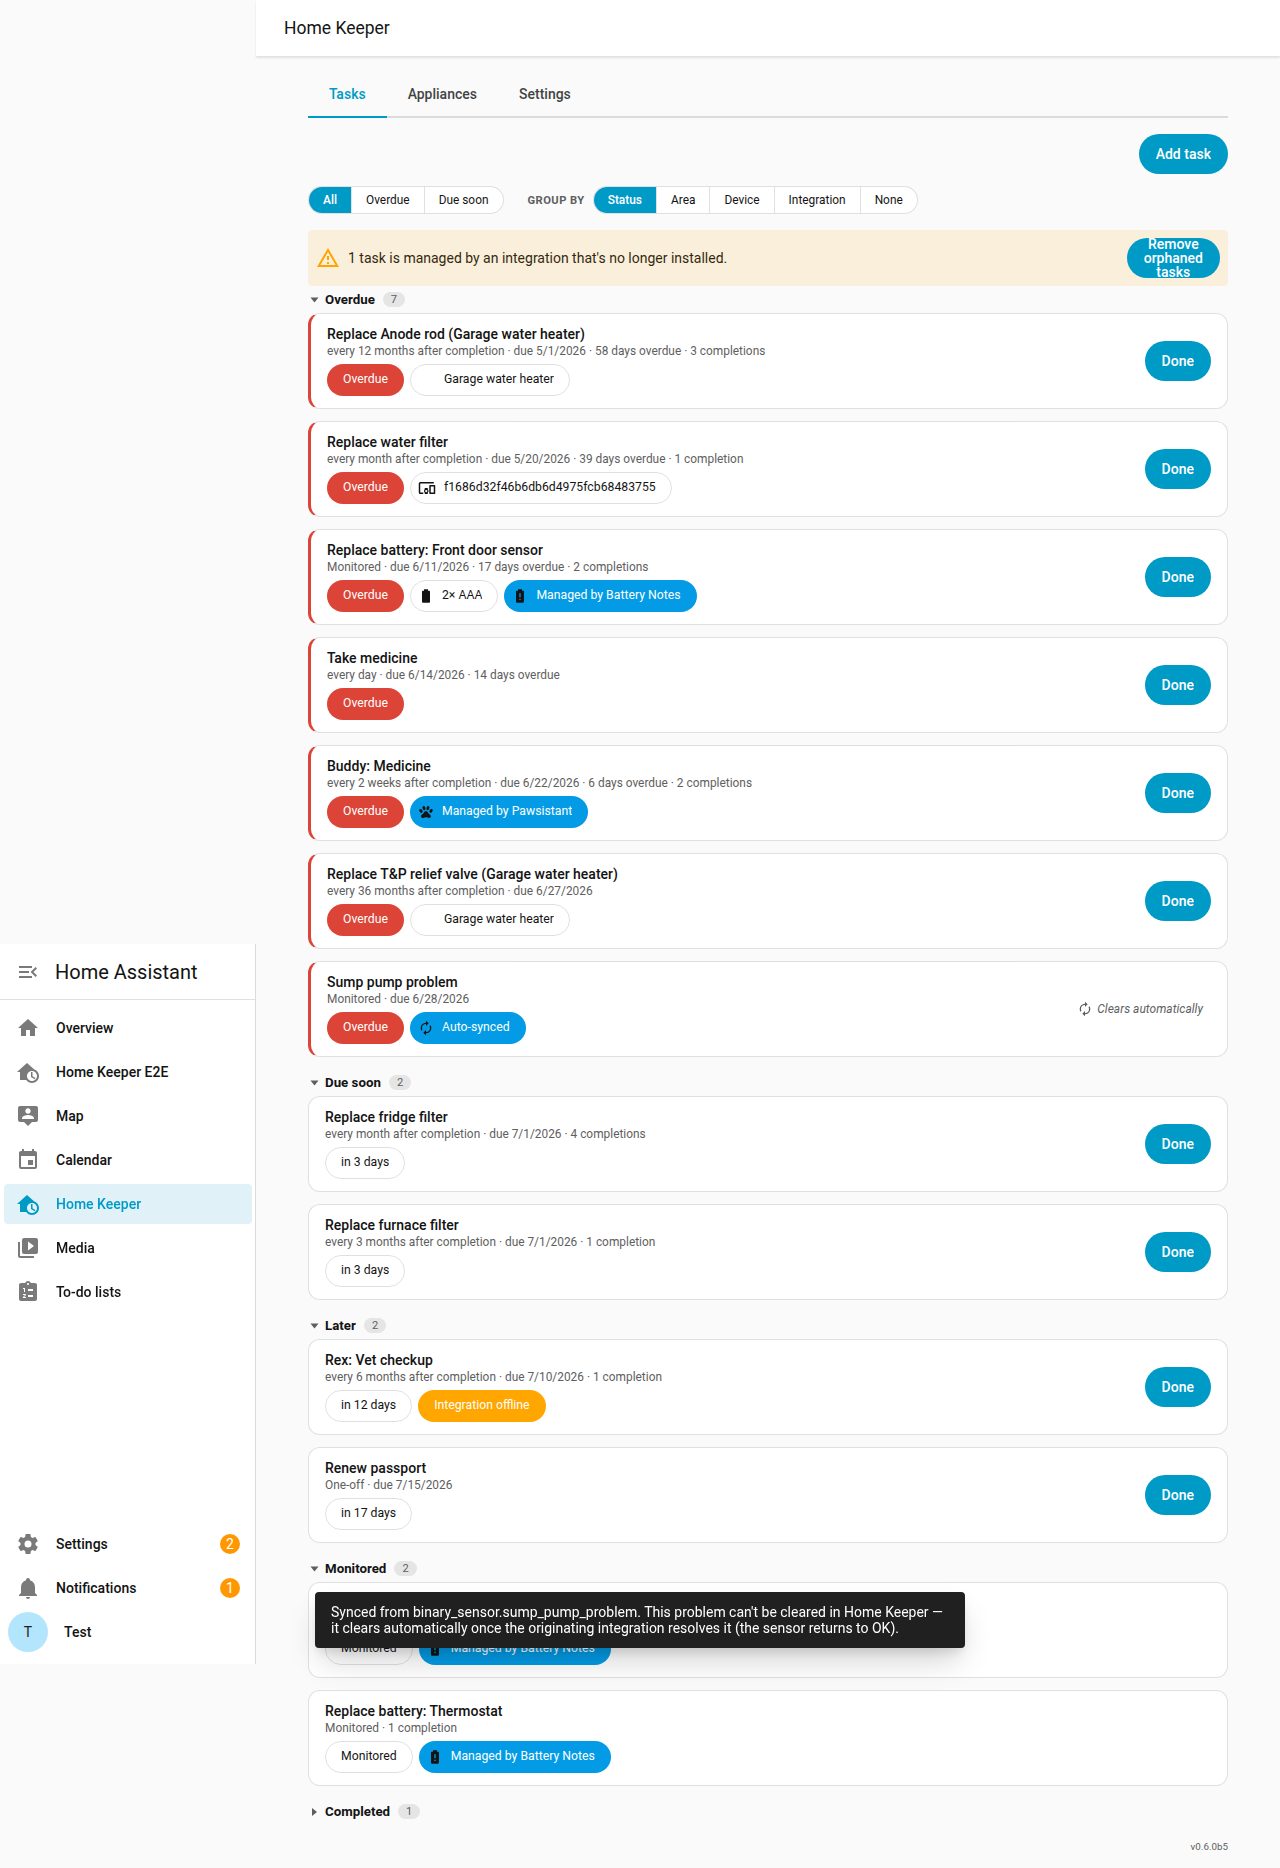
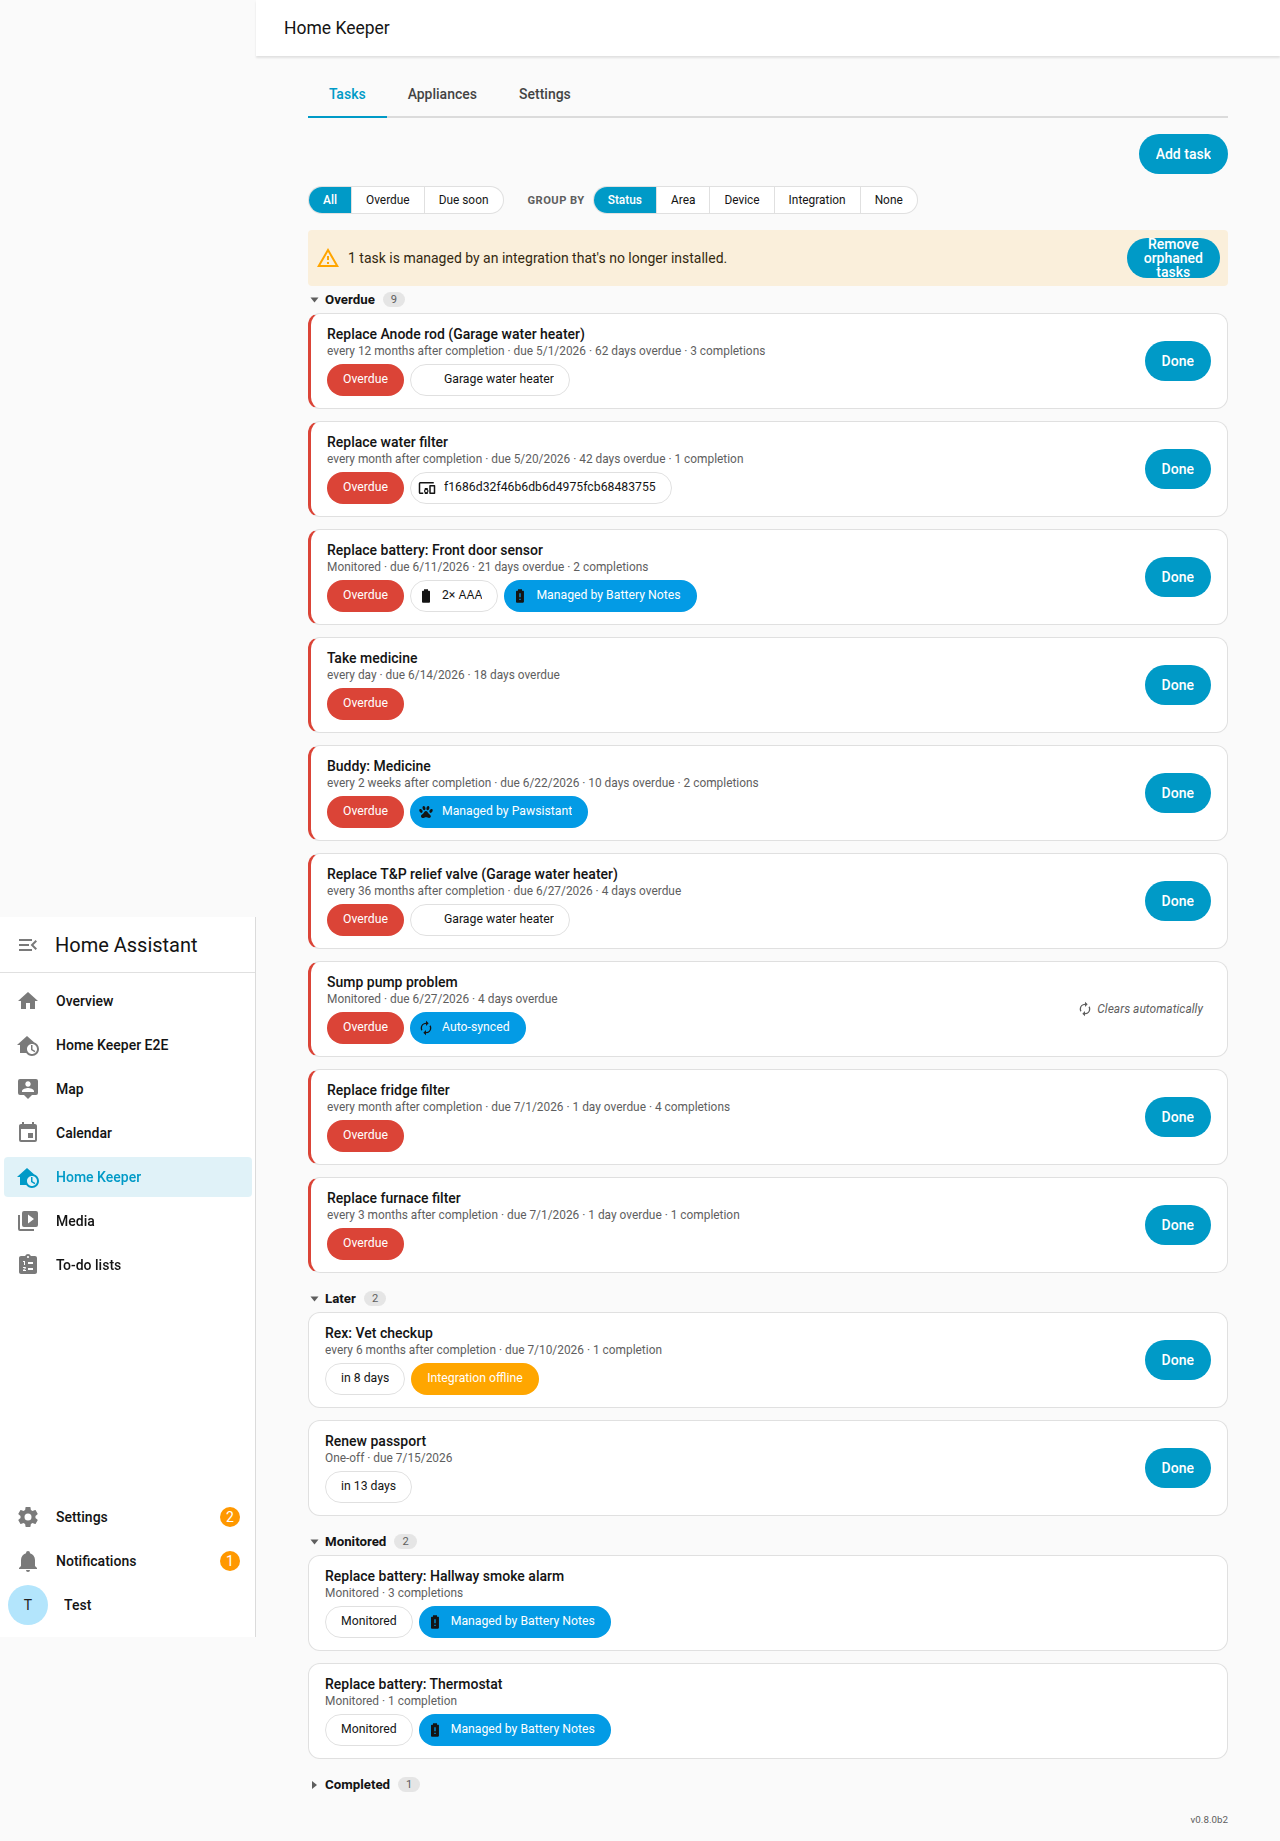
Deploy preview for PR 125 🛫

diff --git a/pr-preview/pr-125/docs/guide/one-off-tasks.html b/pr-preview/pr-125/docs/guide/one-off-tasks.html
@@ -4,7 +4,7 @@
 <meta charset="UTF-8">
 <meta name="generator" content="Docusaurus v3.10.1">
 <title data-rh="true">One-off tasks | Home Keeper</title><meta data-rh="true" name="viewport" content="width=device-width,initial-scale=1"><meta data-rh="true" name="twitter:card" content="summary_large_image"><meta data-rh="true" property="og:image" content="https://prestomation.github.io/ha-home-keeper/pr-preview/pr-125/img/logo.svg"><meta data-rh="true" name="twitter:image" content="https://prestomation.github.io/ha-home-keeper/pr-preview/pr-125/img/logo.svg"><meta data-rh="true" property="og:url" content="https://prestomation.github.io/ha-home-keeper/pr-preview/pr-125/docs/guide/one-off-tasks"><meta data-rh="true" property="og:locale" content="en"><meta data-rh="true" name="docusaurus_locale" content="en"><meta data-rh="true" name="docsearch:language" content="en"><meta data-rh="true" name="docusaurus_version" content="current"><meta data-rh="true" name="docusaurus_tag" content="docs-default-current"><meta data-rh="true" name="docsearch:version" content="current"><meta data-rh="true" name="docsearch:docusaurus_tag" content="docs-default-current"><meta data-rh="true" property="og:title" content="One-off tasks | Home Keeper"><meta data-rh="true" name="description" content="Not everything repeats. One-off tasks are for things you do exactly once —"><meta data-rh="true" property="og:description" content="Not everything repeats. One-off tasks are for things you do exactly once —"><link data-rh="true" rel="icon" href="/ha-home-keeper/pr-preview/pr-125/img/favicon.svg"><link data-rh="true" rel="canonical" href="https://prestomation.github.io/ha-home-keeper/pr-preview/pr-125/docs/guide/one-off-tasks"><link data-rh="true" rel="alternate" href="https://prestomation.github.io/ha-home-keeper/pr-preview/pr-125/docs/guide/one-off-tasks" hreflang="en"><link data-rh="true" rel="alternate" href="https://prestomation.github.io/ha-home-keeper/pr-preview/pr-125/docs/guide/one-off-tasks" hreflang="x-default"><script data-rh="true" type="application/ld+json">{"@context":"https://schema.org","@type":"BreadcrumbList","itemListElement":[{"@type":"ListItem","position":1,"name":"One-off tasks","item":"https://prestomation.github.io/ha-home-keeper/pr-preview/pr-125/docs/guide/one-off-tasks"}]}</script><link rel="stylesheet" href="/ha-home-keeper/pr-preview/pr-125/assets/css/styles.12814b72.css">
-<script src="/ha-home-keeper/pr-preview/pr-125/assets/js/runtime~main.05652926.js" defer="defer"></script>
+<script src="/ha-home-keeper/pr-preview/pr-125/assets/js/runtime~main.12352a05.js" defer="defer"></script>
 <script src="/ha-home-keeper/pr-preview/pr-125/assets/js/main.db74cc26.js" defer="defer"></script>
 </head>
 <body>
@@ -22,7 +22,7 @@ the usual completion details (note, cost, who, photo). The difference is what ha
 surface, landing in a collapsed <strong>Completed</strong> section in the panel that keeps its
 completion record. Undoing the completion brings it right back to its due date.</p>
 <p><img decoding="async" loading="lazy" alt="Creating a one-off task — no cadence, just a due date" src="/ha-home-keeper/pr-preview/pr-125/assets/images/20-panel-create-one-off-a5652bb52b47fc773d7b2124a4a5be16.png" width="1280" height="2737" class="img_ev3q"></p>
-<p><img decoding="async" loading="lazy" alt="Completed one-off tasks collect in their own collapsed section" src="/ha-home-keeper/pr-preview/pr-125/assets/images/19-panel-completed-section-6e2ec64d858d07832e35a5810aa82d0a.png" width="1280" height="1964" class="img_ev3q"></p>
+<p><img decoding="async" loading="lazy" alt="Completed one-off tasks collect in their own collapsed section" src="/ha-home-keeper/pr-preview/pr-125/assets/images/19-panel-completed-section-83c45188ce9db92caeff10250b43708c.png" width="1280" height="1937" class="img_ev3q"></p>
 <p><strong>Tidy up automatically.</strong> If you&#x27;d rather not let finished one-offs pile up, set
 <strong>One-off retention (days)</strong> in the panel&#x27;s <strong>Settings</strong> tab (or via the
 <code>home_keeper.set_options</code> service): a completed one-off is deleted that many days

diff --git a/pr-preview/pr-125/docs/intro.html b/pr-preview/pr-125/docs/intro.html
@@ -4,7 +4,7 @@
 <meta charset="UTF-8">
 <meta name="generator" content="Docusaurus v3.10.1">
 <title data-rh="true">Introduction | Home Keeper</title><meta data-rh="true" name="viewport" content="width=device-width,initial-scale=1"><meta data-rh="true" name="twitter:card" content="summary_large_image"><meta data-rh="true" property="og:image" content="https://prestomation.github.io/ha-home-keeper/pr-preview/pr-125/img/logo.svg"><meta data-rh="true" name="twitter:image" content="https://prestomation.github.io/ha-home-keeper/pr-preview/pr-125/img/logo.svg"><meta data-rh="true" property="og:url" content="https://prestomation.github.io/ha-home-keeper/pr-preview/pr-125/docs/intro"><meta data-rh="true" property="og:locale" content="en"><meta data-rh="true" name="docusaurus_locale" content="en"><meta data-rh="true" name="docsearch:language" content="en"><meta data-rh="true" name="docusaurus_version" content="current"><meta data-rh="true" name="docusaurus_tag" content="docs-default-current"><meta data-rh="true" name="docsearch:version" content="current"><meta data-rh="true" name="docsearch:docusaurus_tag" content="docs-default-current"><meta data-rh="true" property="og:title" content="Introduction | Home Keeper"><meta data-rh="true" name="description" content="Track home maintenance and chores in Home Assistant — fridge/furnace filter"><meta data-rh="true" property="og:description" content="Track home maintenance and chores in Home Assistant — fridge/furnace filter"><link data-rh="true" rel="icon" href="/ha-home-keeper/pr-preview/pr-125/img/favicon.svg"><link data-rh="true" rel="canonical" href="https://prestomation.github.io/ha-home-keeper/pr-preview/pr-125/docs/intro"><link data-rh="true" rel="alternate" href="https://prestomation.github.io/ha-home-keeper/pr-preview/pr-125/docs/intro" hreflang="en"><link data-rh="true" rel="alternate" href="https://prestomation.github.io/ha-home-keeper/pr-preview/pr-125/docs/intro" hreflang="x-default"><script data-rh="true" type="application/ld+json">{"@context":"https://schema.org","@type":"BreadcrumbList","itemListElement":[{"@type":"ListItem","position":1,"name":"Introduction","item":"https://prestomation.github.io/ha-home-keeper/pr-preview/pr-125/docs/intro"}]}</script><link rel="stylesheet" href="/ha-home-keeper/pr-preview/pr-125/assets/css/styles.12814b72.css">
-<script src="/ha-home-keeper/pr-preview/pr-125/assets/js/runtime~main.05652926.js" defer="defer"></script>
+<script src="/ha-home-keeper/pr-preview/pr-125/assets/js/runtime~main.12352a05.js" defer="defer"></script>
 <script src="/ha-home-keeper/pr-preview/pr-125/assets/js/main.db74cc26.js" defer="defer"></script>
 </head>
 <body>
@@ -14,7 +14,7 @@
 <script>!function(){var t=function(){try{return new URLSearchParams(window.location.search).get("docusaurus-theme")}catch(t){}}()||function(){try{return window.localStorage.getItem("theme")}catch(t){}}();document.documentElement.setAttribute("data-theme",t||(window.matchMedia("(prefers-color-scheme: dark)").matches?"dark":"light")),document.documentElement.setAttribute("data-theme-choice",t||"system")}(),function(){try{const c=new URLSearchParams(window.location.search).entries();for(var[t,e]of c)if(t.startsWith("docusaurus-data-")){var a=t.replace("docusaurus-data-","data-");document.documentElement.setAttribute(a,e)}}catch(t){}}()</script><div id="__docusaurus"><link rel="preload" as="image" href="/ha-home-keeper/pr-preview/pr-125/img/logo.svg"><div role="region" aria-label="Skip to main content"><a class="skipToContent_fXgn" href="#__docusaurus_skipToContent_fallback">Skip to main content</a></div><nav aria-label="Main" class="theme-layout-navbar navbar navbar--fixed-top"><div class="navbar__inner"><div class="theme-layout-navbar-left navbar__items"><button aria-label="Toggle navigation bar" aria-expanded="false" class="navbar__toggle clean-btn" type="button"><svg width="30" height="30" viewBox="0 0 30 30" aria-hidden="true"><path stroke="currentColor" stroke-linecap="round" stroke-miterlimit="10" stroke-width="2" d="M4 7h22M4 15h22M4 23h22"></path></svg></button><a class="navbar__brand" href="/ha-home-keeper/pr-preview/pr-125/"><div class="navbar__logo"><img src="/ha-home-keeper/pr-preview/pr-125/img/logo.svg" alt="Home Keeper" class="themedComponent_mlkZ themedComponent--light_NVdE"><img src="/ha-home-keeper/pr-preview/pr-125/img/logo.svg" alt="Home Keeper" class="themedComponent_mlkZ themedComponent--dark_xIcU"></div><b class="navbar__title text--truncate">Home Keeper</b></a><a aria-current="page" class="navbar__item navbar__link navbar__link--active" href="/ha-home-keeper/pr-preview/pr-125/docs/intro">User Guide</a><a class="navbar__item navbar__link" href="/ha-home-keeper/pr-preview/pr-125/developer/integrating">Developer Guide</a><a class="navbar__item navbar__link" href="/ha-home-keeper/pr-preview/pr-125/docs/release-notes">Release Notes</a></div><div class="theme-layout-navbar-right navbar__items navbar__items--right"><a href="https://github.com/prestomation/ha-home-keeper/commits/main" target="_blank" rel="noopener noreferrer" class="navbar__item navbar__link">dev<svg width="13.5" height="13.5" aria-label="(opens in new tab)" class="iconExternalLink_nPIU"><use href="#theme-svg-external-link"></use></svg></a><a href="https://github.com/prestomation/ha-home-keeper" target="_blank" rel="noopener noreferrer" class="navbar__item navbar__link">GitHub<svg width="13.5" height="13.5" aria-label="(opens in new tab)" class="iconExternalLink_nPIU"><use href="#theme-svg-external-link"></use></svg></a><div class="toggle_vylO colorModeToggle_DEke"><button class="clean-btn toggleButton_gllP toggleButtonDisabled_aARS" type="button" disabled="" title="system mode" aria-label="Switch between dark and light mode (currently system mode)"><svg viewBox="0 0 24 24" width="24" height="24" aria-hidden="true" class="toggleIcon_g3eP lightToggleIcon_pyhR"><path fill="currentColor" d="M12,9c1.65,0,3,1.35,3,3s-1.35,3-3,3s-3-1.35-3-3S10.35,9,12,9 M12,7c-2.76,0-5,2.24-5,5s2.24,5,5,5s5-2.24,5-5 S14.76,7,12,7L12,7z M2,13l2,0c0.55,0,1-0.45,1-1s-0.45-1-1-1l-2,0c-0.55,0-1,0.45-1,1S1.45,13,2,13z M20,13l2,0c0.55,0,1-0.45,1-1 s-0.45-1-1-1l-2,0c-0.55,0-1,0.45-1,1S19.45,13,20,13z M11,2v2c0,0.55,0.45,1,1,1s1-0.45,1-1V2c0-[phone redacted]-1S11,1.45,11,2z M11,20v2c0,0.55,0.45,1,1,1s1-0.45,1-1v-2c0-[phone redacted]-1C11.45,19,11,19.45,11,20z M5.99,4.58c-[phone redacted],0 c-0.39,0.39-0.39,1.03,0,1.41l1.06,1.06c0.39,0.39,1.03,0.39,1.41,0s0.39-1.03,0-1.41L5.99,4.58z M18.36,16.95 c-[phone redacted],0c-0.39,0.39-0.39,1.03,0,1.41l1.06,1.06c0.39,0.39,1.03,0.39,1.41,0c0.39-0.39,0.39-1.03,0-1.41 L18.36,16.95z M19.42,5.99c0.39-0.39,0.39-1.03,0-1.41c-[phone redacted],0l-1.06,1.06c-0.39,0.39-0.39,1.03,0,1.41 s1.03,0.39,1.41,0L19.42,5.99z M7.05,18.36c0.39-0.39,0.39-1.03,0-1.41c-[phone redacted],0l-1.06,1.06 c-0.39,0.39-0.39,1.03,0,1.41s1.03,0.39,1.41,0L7.05,18.36z"></path></svg><svg viewBox="0 0 24 24" width="24" height="24" aria-hidden="true" class="toggleIcon_g3eP darkToggleIcon_wfgR"><path fill="currentColor" d="M9.37,5.51C9.19,6.15,9.1,6.82,9.1,7.5c0,4.08,3.32,7.4,7.4,7.4c0.68,0,1.35-0.09,1.99-0.27C17.45,17.19,14.93,19,12,19 c-3.86,0-7-3.14-7-7C5,9.07,6.81,6.55,9.37,5.51z M12,3c-4.97,0-9,4.03-9,9s4.03,9,9,9s9-4.03,9-9c0-[phone redacted] c-0.98,1.37-2.58,2.26-4.4,2.26c-2.98,[phone redacted].4c0-1.81,0.89-3.42,2.26-4.4C12.92,3.04,12.46,3,12,3L12,3z"></path></svg><svg viewBox="0 0 24 24" width="24" height="24" aria-hidden="true" class="toggleIcon_g3eP systemToggleIcon_QzmC"><path fill="currentColor" d="m12 21c4.[phone redacted]-9s-[phone redacted].029 9 9 9zm4.95-13.95c1.[phone redacted].05 4.95s-[phone redacted].95c-[phone redacted]-4.95 2.05v-14c1.[phone redacted] 2.05z"></path></svg></button></div><div class="navbarSearchContainer_Bca1"></div></div></div><div role="presentation" class="navbar-sidebar__backdrop"></div></nav><div id="__docusaurus_skipToContent_fallback" class="theme-layout-main main-wrapper mainWrapper_z2l0"><div class="docsWrapper_hBAB"><button aria-label="Scroll back to top" class="clean-btn theme-back-to-top-button backToTopButton_sjWU" type="button"></button><div class="docRoot_UBD9"><aside class="theme-doc-sidebar-container docSidebarContainer_YfHR"><div class="sidebarViewport_aRkj"><div class="sidebar_njMd"><nav aria-label="Docs sidebar" class="menu thin-scrollbar menu_SIkG"><ul class="theme-doc-sidebar-menu menu__list"><li class="theme-doc-sidebar-item-link theme-doc-sidebar-item-link-level-1 menu__list-item"><a class="menu__link menu__link--active" aria-current="page" href="/ha-home-keeper/pr-preview/pr-125/docs/intro"><span title="Introduction" class="linkLabel_WmDU">Introduction</span></a></li><li class="theme-doc-sidebar-item-category theme-doc-sidebar-item-category-level-1 menu__list-item"><div class="menu__list-item-collapsible"><a class="categoryLink_byQd menu__link menu__link--sublist menu__link--sublist-caret" role="button" aria-expanded="true" href="/ha-home-keeper/pr-preview/pr-125/docs/guide/features"><span title="Guide" class="categoryLinkLabel_W154">Guide</span></a></div><ul class="menu__list"><li class="theme-doc-sidebar-item-link theme-doc-sidebar-item-link-level-2 menu__list-item"><a class="menu__link" tabindex="0" href="/ha-home-keeper/pr-preview/pr-125/docs/guide/features"><span title="Features" class="linkLabel_WmDU">Features</span></a></li><li class="theme-doc-sidebar-item-link theme-doc-sidebar-item-link-level-2 menu__list-item"><a class="menu__link" tabindex="0" href="/ha-home-keeper/pr-preview/pr-125/docs/guide/installation"><span title="Installation" class="linkLabel_WmDU">Installation</span></a></li><li class="theme-doc-sidebar-item-link theme-doc-sidebar-item-link-level-2 menu__list-item"><a class="menu__link" tabindex="0" href="/ha-home-keeper/pr-preview/pr-125/docs/guide/concepts"><span title="Concepts" class="linkLabel_WmDU">Concepts</span></a></li><li class="theme-doc-sidebar-item-link theme-doc-sidebar-item-link-level-2 menu__list-item"><a class="menu__link" tabindex="0" href="/ha-home-keeper/pr-preview/pr-125/docs/guide/one-off-tasks"><span title="One-off tasks" class="linkLabel_WmDU">One-off tasks</span></a></li><li class="theme-doc-sidebar-item-link theme-doc-sidebar-item-link-level-2 menu__list-item"><a class="menu__link" tabindex="0" href="/ha-home-keeper/pr-preview/pr-125/docs/guide/completions"><span title="Completions" class="linkLabel_WmDU">Completions</span></a></li><li class="theme-doc-sidebar-item-link theme-doc-sidebar-item-link-level-2 menu__list-item"><a class="menu__link" tabindex="0" href="/ha-home-keeper/pr-preview/pr-125/docs/guide/triggered-tasks"><span title="Triggered tasks" class="linkLabel_WmDU">Triggered tasks</span></a></li><li class="theme-doc-sidebar-item-link theme-doc-sidebar-item-link-level-2 menu__list-item"><a class="menu__link" tabindex="0" href="/ha-home-keeper/pr-preview/pr-125/docs/guide/sensor-tasks"><span title="Sensor-based tasks" class="linkLabel_WmDU">Sensor-based tasks</span></a></li><li class="theme-doc-sidebar-item-link theme-doc-sidebar-item-link-level-2 menu__list-item"><a class="menu__link" tabindex="0" href="/ha-home-keeper/pr-preview/pr-125/docs/guide/settings"><span title="Settings" class="linkLabel_WmDU">Settings</span></a></li><li class="theme-doc-sidebar-item-link theme-doc-sidebar-item-link-level-2 menu__list-item"><a class="menu__link" tabindex="0" href="/ha-home-keeper/pr-preview/pr-125/docs/guide/profiles"><span title="Profiles" class="linkLabel_WmDU">Profiles</span></a></li><li class="theme-doc-sidebar-item-link theme-doc-sidebar-item-link-level-2 menu__list-item"><a class="menu__link" tabindex="0" href="/ha-home-keeper/pr-preview/pr-125/docs/guide/notifications"><span title="Notifications" class="linkLabel_WmDU">Notifications</span></a></li><li class="theme-doc-sidebar-item-link theme-doc-sidebar-item-link-level-2 menu__list-item"><a class="menu__link" tabindex="0" href="/ha-home-keeper/pr-preview/pr-125/docs/guide/dashboard-card"><span title="Dashboard card" class="linkLabel_WmDU">Dashboard card</span></a></li><li class="theme-doc-sidebar-item-link theme-doc-sidebar-item-link-level-2 menu__list-item"><a class="menu__link" tabindex="0" href="/ha-home-keeper/pr-preview/pr-125/docs/guide/appliances"><span title="Appliances" class="linkLabel_WmDU">Appliances</span></a></li><li class="theme-doc-sidebar-item-link theme-doc-sidebar-item-link-level-2 menu__list-item"><a class="menu__link" tabindex="0" href="/ha-home-keeper/pr-preview/pr-125/docs/guide/services"><span title="Services" class="linkLabel_WmDU">Services</span></a></li><li class="theme-doc-sidebar-item-link theme-doc-sidebar-item-link-level-2 menu__list-item"><a class="menu__link" tabindex="0" href="/ha-home-keeper/pr-preview/pr-125/docs/guide/events"><span title="Events" class="linkLabel_WmDU">Events</span></a></li><li class="theme-doc-sidebar-item-link theme-doc-sidebar-item-link-level-2 menu__list-item"><a class="menu__link" tabindex="0" href="/ha-home-keeper/pr-preview/pr-125/docs/guide/integrations"><span title="Integrations" class="linkLabel_WmDU">Integrations</span></a></li><li class="theme-doc-sidebar-item-link theme-doc-sidebar-item-link-level-2 menu__list-item"><a class="menu__link" tabindex="0" href="/ha-home-keeper/pr-preview/pr-125/docs/guide/localization"><span title="Localization" class="linkLabel_WmDU">Localization</span></a></li></ul></li><li class="theme-doc-sidebar-item-link theme-doc-sidebar-item-link-level-1 menu__list-item"><a class="menu__link" href="/ha-home-keeper/pr-preview/pr-125/docs/release-notes"><span title="Release Notes" class="linkLabel_WmDU">Release Notes</span></a></li></ul></nav></div></div></aside><main class="docMainContainer_TBSr"><div class="container padding-top--md padding-bottom--lg"><div class="row"><div class="col docItemCol_VOVn"><div class="docItemContainer_Djhp"><article><nav class="theme-doc-breadcrumbs breadcrumbsContainer_Z_bl" aria-label="Breadcrumbs"><ul class="breadcrumbs"><li class="breadcrumbs__item"><a aria-label="Home page" class="breadcrumbs__link" href="/ha-home-keeper/pr-preview/pr-125/"><svg viewBox="0 0 24 24" class="breadcrumbHomeIcon_YNFT"><path d="M10 19v-5h4v5c0 .55.45 1 1 1h3c.55 0 1-.45 1-1v-7h1.7c.46 0 .68-.57.33-.87L12.67 3.6c-.38-.34-.96-.34-1.34 0l-8.36 7.53c-.34.3-.13.87.33.87H5v7c0 .55.45 1 1 1h3c.55 0 1-.45 1-1z" fill="currentColor"></path></svg></a></li><li class="breadcrumbs__item breadcrumbs__item--active"><span class="breadcrumbs__link">Introduction</span></li></ul></nav><div class="tocCollapsible_ETCw theme-doc-toc-mobile tocMobile_ITEo"><button type="button" class="clean-btn tocCollapsibleButton_TO0P">On this page</button></div><div class="theme-doc-markdown markdown"><header><h1>Home Keeper</h1></header>
 <p>Track home <strong>maintenance</strong> and <strong>chores</strong> in Home Assistant — fridge/furnace filter
 changes, water filters, taking medicine, and anything else that recurs.</p>
-<p><img decoding="async" loading="lazy" alt="Home Keeper task list" src="/ha-home-keeper/pr-preview/pr-125/assets/images/1-panel-task-list-95de90cfeb40f738cf119fd63f9b3f14.png" width="1280" height="1664" class="img_ev3q"></p>
+<p><img decoding="async" loading="lazy" alt="Home Keeper task list" src="/ha-home-keeper/pr-preview/pr-125/assets/images/1-panel-task-list-d98820364c1b4cffb259e98307741754.png" width="1280" height="1637" class="img_ev3q"></p>
 <h2 class="anchor anchorTargetStickyNavbar_Vzrq" id="features-at-a-glance">Features at a glance<a href="#features-at-a-glance" class="hash-link" aria-label="Direct link to Features at a glance" title="Direct link to Features at a glance" translate="no"></a></h2>
 <ul>
 <li class=""><strong>Tasks, four ways</strong> — <strong>floating</strong> (every N units after last done), <strong>fixed</strong>

diff --git a/pr-preview/pr-125/404.html b/pr-preview/pr-125/404.html
@@ -4,7 +4,7 @@
 <meta charset="UTF-8">
 <meta name="generator" content="Docusaurus v3.10.1">
 <title data-rh="true">Page Not Found | Home Keeper</title><meta data-rh="true" name="viewport" content="width=device-width,initial-scale=1"><meta data-rh="true" name="twitter:card" content="summary_large_image"><meta data-rh="true" property="og:image" content="https://prestomation.github.io/ha-home-keeper/pr-preview/pr-125/img/logo.svg"><meta data-rh="true" name="twitter:image" content="https://prestomation.github.io/ha-home-keeper/pr-preview/pr-125/img/logo.svg"><meta data-rh="true" property="og:url" content="https://prestomation.github.io/ha-home-keeper/pr-preview/pr-125/404.html"><meta data-rh="true" property="og:locale" content="en"><meta data-rh="true" name="docusaurus_locale" content="en"><meta data-rh="true" name="docusaurus_tag" content="default"><meta data-rh="true" name="docsearch:language" content="en"><meta data-rh="true" name="docsearch:docusaurus_tag" content="default"><meta data-rh="true" property="og:title" content="Page Not Found | Home Keeper"><link data-rh="true" rel="icon" href="/ha-home-keeper/pr-preview/pr-125/img/favicon.svg"><link data-rh="true" rel="canonical" href="https://prestomation.github.io/ha-home-keeper/pr-preview/pr-125/404.html"><link data-rh="true" rel="alternate" href="https://prestomation.github.io/ha-home-keeper/pr-preview/pr-125/404.html" hreflang="en"><link data-rh="true" rel="alternate" href="https://prestomation.github.io/ha-home-keeper/pr-preview/pr-125/404.html" hreflang="x-default"><link rel="stylesheet" href="/ha-home-keeper/pr-preview/pr-125/assets/css/styles.12814b72.css">
-<script src="/ha-home-keeper/pr-preview/pr-125/assets/js/runtime~main.05652926.js" defer="defer"></script>
+<script src="/ha-home-keeper/pr-preview/pr-125/assets/js/runtime~main.12352a05.js" defer="defer"></script>
 <script src="/ha-home-keeper/pr-preview/pr-125/assets/js/main.db74cc26.js" defer="defer"></script>
 </head>
 <body>

diff --git a/pr-preview/pr-125/developer/architecture.html b/pr-preview/pr-125/developer/architecture.html
@@ -4,7 +4,7 @@
 <meta charset="UTF-8">
 <meta name="generator" content="Docusaurus v3.10.1">
 <title data-rh="true">Architecture | Home Keeper</title><meta data-rh="true" name="viewport" content="width=device-width,initial-scale=1"><meta data-rh="true" name="twitter:card" content="summary_large_image"><meta data-rh="true" property="og:image" content="https://prestomation.github.io/ha-home-keeper/pr-preview/pr-125/img/logo.svg"><meta data-rh="true" name="twitter:image" content="https://prestomation.github.io/ha-home-keeper/pr-preview/pr-125/img/logo.svg"><meta data-rh="true" property="og:url" content="https://prestomation.github.io/ha-home-keeper/pr-preview/pr-125/developer/architecture"><meta data-rh="true" property="og:locale" content="en"><meta data-rh="true" name="docusaurus_locale" content="en"><meta data-rh="true" name="docsearch:language" content="en"><meta data-rh="true" name="docusaurus_version" content="current"><meta data-rh="true" name="docusaurus_tag" content="docs-developer-current"><meta data-rh="true" name="docsearch:version" content="current"><meta data-rh="true" name="docsearch:docusaurus_tag" content="docs-developer-current"><meta data-rh="true" property="og:title" content="Architecture | Home Keeper"><meta data-rh="true" name="description" content="Goal"><meta data-rh="true" property="og:description" content="Goal"><link data-rh="true" rel="icon" href="/ha-home-keeper/pr-preview/pr-125/img/favicon.svg"><link data-rh="true" rel="canonical" href="https://prestomation.github.io/ha-home-keeper/pr-preview/pr-125/developer/architecture"><link data-rh="true" rel="alternate" href="https://prestomation.github.io/ha-home-keeper/pr-preview/pr-125/developer/architecture" hreflang="en"><link data-rh="true" rel="alternate" href="https://prestomation.github.io/ha-home-keeper/pr-preview/pr-125/developer/architecture" hreflang="x-default"><script data-rh="true" type="application/ld+json">{"@context":"https://schema.org","@type":"BreadcrumbList","itemListElement":[{"@type":"ListItem","position":1,"name":"Architecture","item":"https://prestomation.github.io/ha-home-keeper/pr-preview/pr-125/developer/architecture"}]}</script><link rel="stylesheet" href="/ha-home-keeper/pr-preview/pr-125/assets/css/styles.12814b72.css">
-<script src="/ha-home-keeper/pr-preview/pr-125/assets/js/runtime~main.05652926.js" defer="defer"></script>
+<script src="/ha-home-keeper/pr-preview/pr-125/assets/js/runtime~main.12352a05.js" defer="defer"></script>
 <script src="/ha-home-keeper/pr-preview/pr-125/assets/js/main.db74cc26.js" defer="defer"></script>
 </head>
 <body>

diff --git a/pr-preview/pr-125/developer/events.html b/pr-preview/pr-125/developer/events.html
@@ -4,7 +4,7 @@
 <meta charset="UTF-8">
 <meta name="generator" content="Docusaurus v3.10.1">
 <title data-rh="true">Events reference | Home Keeper</title><meta data-rh="true" name="viewport" content="width=device-width,initial-scale=1"><meta data-rh="true" name="twitter:card" content="summary_large_image"><meta data-rh="true" property="og:image" content="https://prestomation.github.io/ha-home-keeper/pr-preview/pr-125/img/logo.svg"><meta data-rh="true" name="twitter:image" content="https://prestomation.github.io/ha-home-keeper/pr-preview/pr-125/img/logo.svg"><meta data-rh="true" property="og:url" content="https://prestomation.github.io/ha-home-keeper/pr-preview/pr-125/developer/events"><meta data-rh="true" property="og:locale" content="en"><meta data-rh="true" name="docusaurus_locale" content="en"><meta data-rh="true" name="docsearch:language" content="en"><meta data-rh="true" name="docusaurus_version" content="current"><meta data-rh="true" name="docusaurus_tag" content="docs-developer-current"><meta data-rh="true" name="docsearch:version" content="current"><meta data-rh="true" name="docsearch:docusaurus_tag" content="docs-developer-current"><meta data-rh="true" property="og:title" content="Events reference | Home Keeper"><meta data-rh="true" name="description" content="Home Keeper fires a Home Assistant bus event for every meaningful thing that"><meta data-rh="true" property="og:description" content="Home Keeper fires a Home Assistant bus event for every meaningful thing that"><link data-rh="true" rel="icon" href="/ha-home-keeper/pr-preview/pr-125/img/favicon.svg"><link data-rh="true" rel="canonical" href="https://prestomation.github.io/ha-home-keeper/pr-preview/pr-125/developer/events"><link data-rh="true" rel="alternate" href="https://prestomation.github.io/ha-home-keeper/pr-preview/pr-125/developer/events" hreflang="en"><link data-rh="true" rel="alternate" href="https://prestomation.github.io/ha-home-keeper/pr-preview/pr-125/developer/events" hreflang="x-default"><script data-rh="true" type="application/ld+json">{"@context":"https://schema.org","@type":"BreadcrumbList","itemListElement":[{"@type":"ListItem","position":1,"name":"Events","item":"https://prestomation.github.io/ha-home-keeper/pr-preview/pr-125/developer/events"}]}</script><link rel="stylesheet" href="/ha-home-keeper/pr-preview/pr-125/assets/css/styles.12814b72.css">
-<script src="/ha-home-keeper/pr-preview/pr-125/assets/js/runtime~main.05652926.js" defer="defer"></script>
+<script src="/ha-home-keeper/pr-preview/pr-125/assets/js/runtime~main.12352a05.js" defer="defer"></script>
 <script src="/ha-home-keeper/pr-preview/pr-125/assets/js/main.db74cc26.js" defer="defer"></script>
 </head>
 <body>

diff --git a/pr-preview/pr-125/developer/glue-integrations.html b/pr-preview/pr-125/developer/glue-integrations.html
@@ -4,7 +4,7 @@
 <meta charset="UTF-8">
 <meta name="generator" content="Docusaurus v3.10.1">
 <title data-rh="true">Glue integrations | Home Keeper</title><meta data-rh="true" name="viewport" content="width=device-width,initial-scale=1"><meta data-rh="true" name="twitter:card" content="summary_large_image"><meta data-rh="true" property="og:image" content="https://prestomation.github.io/ha-home-keeper/pr-preview/pr-125/img/logo.svg"><meta data-rh="true" name="twitter:image" content="https://prestomation.github.io/ha-home-keeper/pr-preview/pr-125/img/logo.svg"><meta data-rh="true" property="og:url" content="https://prestomation.github.io/ha-home-keeper/pr-preview/pr-125/developer/glue-integrations"><meta data-rh="true" property="og:locale" content="en"><meta data-rh="true" name="docusaurus_locale" content="en"><meta data-rh="true" name="docsearch:language" content="en"><meta data-rh="true" name="docusaurus_version" content="current"><meta data-rh="true" name="docusaurus_tag" content="docs-developer-current"><meta data-rh="true" name="docsearch:version" content="current"><meta data-rh="true" name="docsearch:docusaurus_tag" content="docs-developer-current"><meta data-rh="true" property="og:title" content="Glue integrations | Home Keeper"><meta data-rh="true" name="description" content="A glue integration is a small, standalone Home Assistant integration whose only job"><meta data-rh="true" property="og:description" content="A glue integration is a small, standalone Home Assistant integration whose only job"><link data-rh="true" rel="icon" href="/ha-home-keeper/pr-preview/pr-125/img/favicon.svg"><link data-rh="true" rel="canonical" href="https://prestomation.github.io/ha-home-keeper/pr-preview/pr-125/developer/glue-integrations"><link data-rh="true" rel="alternate" href="https://prestomation.github.io/ha-home-keeper/pr-preview/pr-125/developer/glue-integrations" hreflang="en"><link data-rh="true" rel="alternate" href="https://prestomation.github.io/ha-home-keeper/pr-preview/pr-125/developer/glue-integrations" hreflang="x-default"><script data-rh="true" type="application/ld+json">{"@context":"https://schema.org","@type":"BreadcrumbList","itemListElement":[{"@type":"ListItem","position":1,"name":"Glue integrations","item":"https://prestomation.github.io/ha-home-keeper/pr-preview/pr-125/developer/glue-integrations"}]}</script><link rel="stylesheet" href="/ha-home-keeper/pr-preview/pr-125/assets/css/styles.12814b72.css">
-<script src="/ha-home-keeper/pr-preview/pr-125/assets/js/runtime~main.05652926.js" defer="defer"></script>
+<script src="/ha-home-keeper/pr-preview/pr-125/assets/js/runtime~main.12352a05.js" defer="defer"></script>
 <script src="/ha-home-keeper/pr-preview/pr-125/assets/js/main.db74cc26.js" defer="defer"></script>
 </head>
 <body>

diff --git a/pr-preview/pr-125/developer/integrating.html b/pr-preview/pr-125/developer/integrating.html
@@ -4,7 +4,7 @@
 <meta charset="UTF-8">
 <meta name="generator" content="Docusaurus v3.10.1">
 <title data-rh="true">Integrating with Home Keeper | Home Keeper</title><meta data-rh="true" name="viewport" content="width=device-width,initial-scale=1"><meta data-rh="true" name="twitter:card" content="summary_large_image"><meta data-rh="true" property="og:image" content="https://prestomation.github.io/ha-home-keeper/pr-preview/pr-125/img/logo.svg"><meta data-rh="true" name="twitter:image" content="https://prestomation.github.io/ha-home-keeper/pr-preview/pr-125/img/logo.svg"><meta data-rh="true" property="og:url" content="https://prestomation.github.io/ha-home-keeper/pr-preview/pr-125/developer/integrating"><meta data-rh="true" property="og:locale" content="en"><meta data-rh="true" name="docusaurus_locale" content="en"><meta data-rh="true" name="docsearch:language" content="en"><meta data-rh="true" name="docusaurus_version" content="current"><meta data-rh="true" name="docusaurus_tag" content="docs-developer-current"><meta data-rh="true" name="docsearch:version" content="current"><meta data-rh="true" name="docsearch:docusaurus_tag" content="docs-developer-current"><meta data-rh="true" property="og:title" content="Integrating with Home Keeper | Home Keeper"><meta data-rh="true" name="description" content="This guide is for authors of other Home Assistant integrations who want to push"><meta data-rh="true" property="og:description" content="This guide is for authors of other Home Assistant integrations who want to push"><link data-rh="true" rel="icon" href="/ha-home-keeper/pr-preview/pr-125/img/favicon.svg"><link data-rh="true" rel="canonical" href="https://prestomation.github.io/ha-home-keeper/pr-preview/pr-125/developer/integrating"><link data-rh="true" rel="alternate" href="https://prestomation.github.io/ha-home-keeper/pr-preview/pr-125/developer/integrating" hreflang="en"><link data-rh="true" rel="alternate" href="https://prestomation.github.io/ha-home-keeper/pr-preview/pr-125/developer/integrating" hreflang="x-default"><script data-rh="true" type="application/ld+json">{"@context":"https://schema.org","@type":"BreadcrumbList","itemListElement":[{"@type":"ListItem","position":1,"name":"Integrating","item":"https://prestomation.github.io/ha-home-keeper/pr-preview/pr-125/developer/integrating"}]}</script><link rel="stylesheet" href="/ha-home-keeper/pr-preview/pr-125/assets/css/styles.12814b72.css">
-<script src="/ha-home-keeper/pr-preview/pr-125/assets/js/runtime~main.05652926.js" defer="defer"></script>
+<script src="/ha-home-keeper/pr-preview/pr-125/assets/js/runtime~main.12352a05.js" defer="defer"></script>
 <script src="/ha-home-keeper/pr-preview/pr-125/assets/js/main.db74cc26.js" defer="defer"></script>
 </head>
 <body>

diff --git a/pr-preview/pr-125/docs/guide/appliances.html b/pr-preview/pr-125/docs/guide/appliances.html
@@ -4,7 +4,7 @@
 <meta charset="UTF-8">
 <meta name="generator" content="Docusaurus v3.10.1">
 <title data-rh="true">Appliances | Home Keeper</title><meta data-rh="true" name="viewport" content="width=device-width,initial-scale=1"><meta data-rh="true" name="twitter:card" content="summary_large_image"><meta data-rh="true" property="og:image" content="https://prestomation.github.io/ha-home-keeper/pr-preview/pr-125/img/logo.svg"><meta data-rh="true" name="twitter:image" content="https://prestomation.github.io/ha-home-keeper/pr-preview/pr-125/img/logo.svg"><meta data-rh="true" property="og:url" content="https://prestomation.github.io/ha-home-keeper/pr-preview/pr-125/docs/guide/appliances"><meta data-rh="true" property="og:locale" content="en"><meta data-rh="true" name="docusaurus_locale" content="en"><meta data-rh="true" name="docsearch:language" content="en"><meta data-rh="true" name="docusaurus_version" content="current"><meta data-rh="true" name="docusaurus_tag" content="docs-default-current"><meta data-rh="true" name="docsearch:version" content="current"><meta data-rh="true" name="docsearch:docusaurus_tag" content="docs-default-current"><meta data-rh="true" property="og:title" content="Appliances | Home Keeper"><meta data-rh="true" name="description" content="Most appliances you actually maintain — a &quot;dumb&quot; fridge, furnace, or water heater —"><meta data-rh="true" property="og:description" content="Most appliances you actually maintain — a &quot;dumb&quot; fridge, furnace, or water heater —"><link data-rh="true" rel="icon" href="/ha-home-keeper/pr-preview/pr-125/img/favicon.svg"><link data-rh="true" rel="canonical" href="https://prestomation.github.io/ha-home-keeper/pr-preview/pr-125/docs/guide/appliances"><link data-rh="true" rel="alternate" href="https://prestomation.github.io/ha-home-keeper/pr-preview/pr-125/docs/guide/appliances" hreflang="en"><link data-rh="true" rel="alternate" href="https://prestomation.github.io/ha-home-keeper/pr-preview/pr-125/docs/guide/appliances" hreflang="x-default"><script data-rh="true" type="application/ld+json">{"@context":"https://schema.org","@type":"BreadcrumbList","itemListElement":[{"@type":"ListItem","position":1,"name":"Appliances","item":"https://prestomation.github.io/ha-home-keeper/pr-preview/pr-125/docs/guide/appliances"}]}</script><link rel="stylesheet" href="/ha-home-keeper/pr-preview/pr-125/assets/css/styles.12814b72.css">
-<script src="/ha-home-keeper/pr-preview/pr-125/assets/js/runtime~main.05652926.js" defer="defer"></script>
+<script src="/ha-home-keeper/pr-preview/pr-125/assets/js/runtime~main.12352a05.js" defer="defer"></script>
 <script src="/ha-home-keeper/pr-preview/pr-125/assets/js/main.db74cc26.js" defer="defer"></script>
 </head>
 <body>

diff --git a/pr-preview/pr-125/docs/guide/completions.html b/pr-preview/pr-125/docs/guide/completions.html
@@ -4,7 +4,7 @@
 <meta charset="UTF-8">
 <meta name="generator" content="Docusaurus v3.10.1">
 <title data-rh="true">Logging completions | Home Keeper</title><meta data-rh="true" name="viewport" content="width=device-width,initial-scale=1"><meta data-rh="true" name="twitter:card" content="summary_large_image"><meta data-rh="true" property="og:image" content="https://prestomation.github.io/ha-home-keeper/pr-preview/pr-125/img/logo.svg"><meta data-rh="true" name="twitter:image" content="https://prestomation.github.io/ha-home-keeper/pr-preview/pr-125/img/logo.svg"><meta data-rh="true" property="og:url" content="https://prestomation.github.io/ha-home-keeper/pr-preview/pr-125/docs/guide/completions"><meta data-rh="true" property="og:locale" content="en"><meta data-rh="true" name="docusaurus_locale" content="en"><meta data-rh="true" name="docsearch:language" content="en"><meta data-rh="true" name="docusaurus_version" content="current"><meta data-rh="true" name="docusaurus_tag" content="docs-default-current"><meta data-rh="true" name="docsearch:version" content="current"><meta data-rh="true" name="docsearch:docusaurus_tag" content="docs-default-current"><meta data-rh="true" property="og:title" content="Logging completions | Home Keeper"><meta data-rh="true" name="description" content="By default marking a task Done is one tap. But for the chores you want a record"><meta data-rh="true" property="og:description" content="By default marking a task Done is one tap. But for the chores you want a record"><link data-rh="true" rel="icon" href="/ha-home-keeper/pr-preview/pr-125/img/favicon.svg"><link data-rh="true" rel="canonical" href="https://prestomation.github.io/ha-home-keeper/pr-preview/pr-125/docs/guide/completions"><link data-rh="true" rel="alternate" href="https://prestomation.github.io/ha-home-keeper/pr-preview/pr-125/docs/guide/completions" hreflang="en"><link data-rh="true" rel="alternate" href="https://prestomation.github.io/ha-home-keeper/pr-preview/pr-125/docs/guide/completions" hreflang="x-default"><script data-rh="true" type="application/ld+json">{"@context":"https://schema.org","@type":"BreadcrumbList","itemListElement":[{"@type":"ListItem","position":1,"name":"Completions","item":"https://prestomation.github.io/ha-home-keeper/pr-preview/pr-125/docs/guide/completions"}]}</script><link rel="stylesheet" href="/ha-home-keeper/pr-preview/pr-125/assets/css/styles.12814b72.css">
-<script src="/ha-home-keeper/pr-preview/pr-125/assets/js/runtime~main.05652926.js" defer="defer"></script>
+<script src="/ha-home-keeper/pr-preview/pr-125/assets/js/runtime~main.12352a05.js" defer="defer"></script>
 <script src="/ha-home-keeper/pr-preview/pr-125/assets/js/main.db74cc26.js" defer="defer"></script>
 </head>
 <body>

diff --git a/pr-preview/pr-125/docs/guide/concepts.html b/pr-preview/pr-125/docs/guide/concepts.html
@@ -4,7 +4,7 @@
 <meta charset="UTF-8">
 <meta name="generator" content="Docusaurus v3.10.1">
 <title data-rh="true">Core concepts | Home Keeper</title><meta data-rh="true" name="viewport" content="width=device-width,initial-scale=1"><meta data-rh="true" name="twitter:card" content="summary_large_image"><meta data-rh="true" property="og:image" content="https://prestomation.github.io/ha-home-keeper/pr-preview/pr-125/img/logo.svg"><meta data-rh="true" name="twitter:image" content="https://prestomation.github.io/ha-home-keeper/pr-preview/pr-125/img/logo.svg"><meta data-rh="true" property="og:url" content="https://prestomation.github.io/ha-home-keeper/pr-preview/pr-125/docs/guide/concepts"><meta data-rh="true" property="og:locale" content="en"><meta data-rh="true" name="docusaurus_locale" content="en"><meta data-rh="true" name="docsearch:language" content="en"><meta data-rh="true" name="docusaurus_version" content="current"><meta data-rh="true" name="docusaurus_tag" content="docs-default-current"><meta data-rh="true" name="docsearch:version" content="current"><meta data-rh="true" name="docsearch:docusaurus_tag" content="docs-default-current"><meta data-rh="true" property="og:title" content="Core concepts | Home Keeper"><meta data-rh="true" name="description" content="A task has a name, notes, an optional device it&#x27;s attached to, and a recurrence:"><meta data-rh="true" property="og:description" content="A task has a name, notes, an optional device it&#x27;s attached to, and a recurrence:"><link data-rh="true" rel="icon" href="/ha-home-keeper/pr-preview/pr-125/img/favicon.svg"><link data-rh="true" rel="canonical" href="https://prestomation.github.io/ha-home-keeper/pr-preview/pr-125/docs/guide/concepts"><link data-rh="true" rel="alternate" href="https://prestomation.github.io/ha-home-keeper/pr-preview/pr-125/docs/guide/concepts" hreflang="en"><link data-rh="true" rel="alternate" href="https://prestomation.github.io/ha-home-keeper/pr-preview/pr-125/docs/guide/concepts" hreflang="x-default"><script data-rh="true" type="application/ld+json">{"@context":"https://schema.org","@type":"BreadcrumbList","itemListElement":[{"@type":"ListItem","position":1,"name":"Concepts","item":"https://prestomation.github.io/ha-home-keeper/pr-preview/pr-125/docs/guide/concepts"}]}</script><link rel="stylesheet" href="/ha-home-keeper/pr-preview/pr-125/assets/css/styles.12814b72.css">
-<script src="/ha-home-keeper/pr-preview/pr-125/assets/js/runtime~main.05652926.js" defer="defer"></script>
+<script src="/ha-home-keeper/pr-preview/pr-125/assets/js/runtime~main.12352a05.js" defer="defer"></script>
 <script src="/ha-home-keeper/pr-preview/pr-125/assets/js/main.db74cc26.js" defer="defer"></script>
 </head>
 <body>

diff --git a/pr-preview/pr-125/docs/guide/dashboard-card.html b/pr-preview/pr-125/docs/guide/dashboard-card.html
@@ -4,7 +4,7 @@
 <meta charset="UTF-8">
 <meta name="generator" content="Docusaurus v3.10.1">
 <title data-rh="true">Dashboard card | Home Keeper</title><meta data-rh="true" name="viewport" content="width=device-width,initial-scale=1"><meta data-rh="true" name="twitter:card" content="summary_large_image"><meta data-rh="true" property="og:image" content="https://prestomation.github.io/ha-home-keeper/pr-preview/pr-125/img/logo.svg"><meta data-rh="true" name="twitter:image" content="https://prestomation.github.io/ha-home-keeper/pr-preview/pr-125/img/logo.svg"><meta data-rh="true" property="og:url" content="https://prestomation.github.io/ha-home-keeper/pr-preview/pr-125/docs/guide/dashboard-card"><meta data-rh="true" property="og:locale" content="en"><meta data-rh="true" name="docusaurus_locale" content="en"><meta data-rh="true" name="docsearch:language" content="en"><meta data-rh="true" name="docusaurus_version" content="current"><meta data-rh="true" name="docusaurus_tag" content="docs-default-current"><meta data-rh="true" name="docsearch:version" content="current"><meta data-rh="true" name="docsearch:docusaurus_tag" content="docs-default-current"><meta data-rh="true" property="og:title" content="Dashboard card | Home Keeper"><meta data-rh="true" name="description" content="The bundled Home Keeper Tasks card (custom:home-keeper-card) is a resizable list"><meta data-rh="true" property="og:description" content="The bundled Home Keeper Tasks card (custom:home-keeper-card) is a resizable list"><link data-rh="true" rel="icon" href="/ha-home-keeper/pr-preview/pr-125/img/favicon.svg"><link data-rh="true" rel="canonical" href="https://prestomation.github.io/ha-home-keeper/pr-preview/pr-125/docs/guide/dashboard-card"><link data-rh="true" rel="alternate" href="https://prestomation.github.io/ha-home-keeper/pr-preview/pr-125/docs/guide/dashboard-card" hreflang="en"><link data-rh="true" rel="alternate" href="https://prestomation.github.io/ha-home-keeper/pr-preview/pr-125/docs/guide/dashboard-card" hreflang="x-default"><script data-rh="true" type="application/ld+json">{"@context":"https://schema.org","@type":"BreadcrumbList","itemListElement":[{"@type":"ListItem","position":1,"name":"Dashboard card","item":"https://prestomation.github.io/ha-home-keeper/pr-preview/pr-125/docs/guide/dashboard-card"}]}</script><link rel="stylesheet" href="/ha-home-keeper/pr-preview/pr-125/assets/css/styles.12814b72.css">
-<script src="/ha-home-keeper/pr-preview/pr-125/assets/js/runtime~main.05652926.js" defer="defer"></script>
+<script src="/ha-home-keeper/pr-preview/pr-125/assets/js/runtime~main.12352a05.js" defer="defer"></script>
 <script src="/ha-home-keeper/pr-preview/pr-125/assets/js/main.db74cc26.js" defer="defer"></script>
 </head>
 <body>

diff --git a/pr-preview/pr-125/docs/guide/events.html b/pr-preview/pr-125/docs/guide/events.html
@@ -4,7 +4,7 @@
 <meta charset="UTF-8">
 <meta name="generator" content="Docusaurus v3.10.1">
 <title data-rh="true">Events &amp; automations | Home Keeper</title><meta data-rh="true" name="viewport" content="width=device-width,initial-scale=1"><meta data-rh="true" name="twitter:card" content="summary_large_image"><meta data-rh="true" property="og:image" content="https://prestomation.github.io/ha-home-keeper/pr-preview/pr-125/img/logo.svg"><meta data-rh="true" name="twitter:image" content="https://prestomation.github.io/ha-home-keeper/pr-preview/pr-125/img/logo.svg"><meta data-rh="true" property="og:url" content="https://prestomation.github.io/ha-home-keeper/pr-preview/pr-125/docs/guide/events"><meta data-rh="true" property="og:locale" content="en"><meta data-rh="true" name="docusaurus_locale" content="en"><meta data-rh="true" name="docsearch:language" content="en"><meta data-rh="true" name="docusaurus_version" content="current"><meta data-rh="true" name="docusaurus_tag" content="docs-default-current"><meta data-rh="true" name="docsearch:version" content="current"><meta data-rh="true" name="docsearch:docusaurus_tag" content="docs-default-current"><meta data-rh="true" property="og:title" content="Events &amp; automations | Home Keeper"><meta data-rh="true" name="description" content="Home Keeper fires a Home Assistant bus event for every meaningful change so you can"><meta data-rh="true" property="og:description" content="Home Keeper fires a Home Assistant bus event for every meaningful change so you can"><link data-rh="true" rel="icon" href="/ha-home-keeper/pr-preview/pr-125/img/favicon.svg"><link data-rh="true" rel="canonical" href="https://prestomation.github.io/ha-home-keeper/pr-preview/pr-125/docs/guide/events"><link data-rh="true" rel="alternate" href="https://prestomation.github.io/ha-home-keeper/pr-preview/pr-125/docs/guide/events" hreflang="en"><link data-rh="true" rel="alternate" href="https://prestomation.github.io/ha-home-keeper/pr-preview/pr-125/docs/guide/events" hreflang="x-default"><script data-rh="true" type="application/ld+json">{"@context":"https://schema.org","@type":"BreadcrumbList","itemListElement":[{"@type":"ListItem","position":1,"name":"Events","item":"https://prestomation.github.io/ha-home-keeper/pr-preview/pr-125/docs/guide/events"}]}</script><link rel="stylesheet" href="/ha-home-keeper/pr-preview/pr-125/assets/css/styles.12814b72.css">
-<script src="/ha-home-keeper/pr-preview/pr-125/assets/js/runtime~main.05652926.js" defer="defer"></script>
+<script src="/ha-home-keeper/pr-preview/pr-125/assets/js/runtime~main.12352a05.js" defer="defer"></script>
 <script src="/ha-home-keeper/pr-preview/pr-125/assets/js/main.db74cc26.js" defer="defer"></script>
 </head>
 <body>